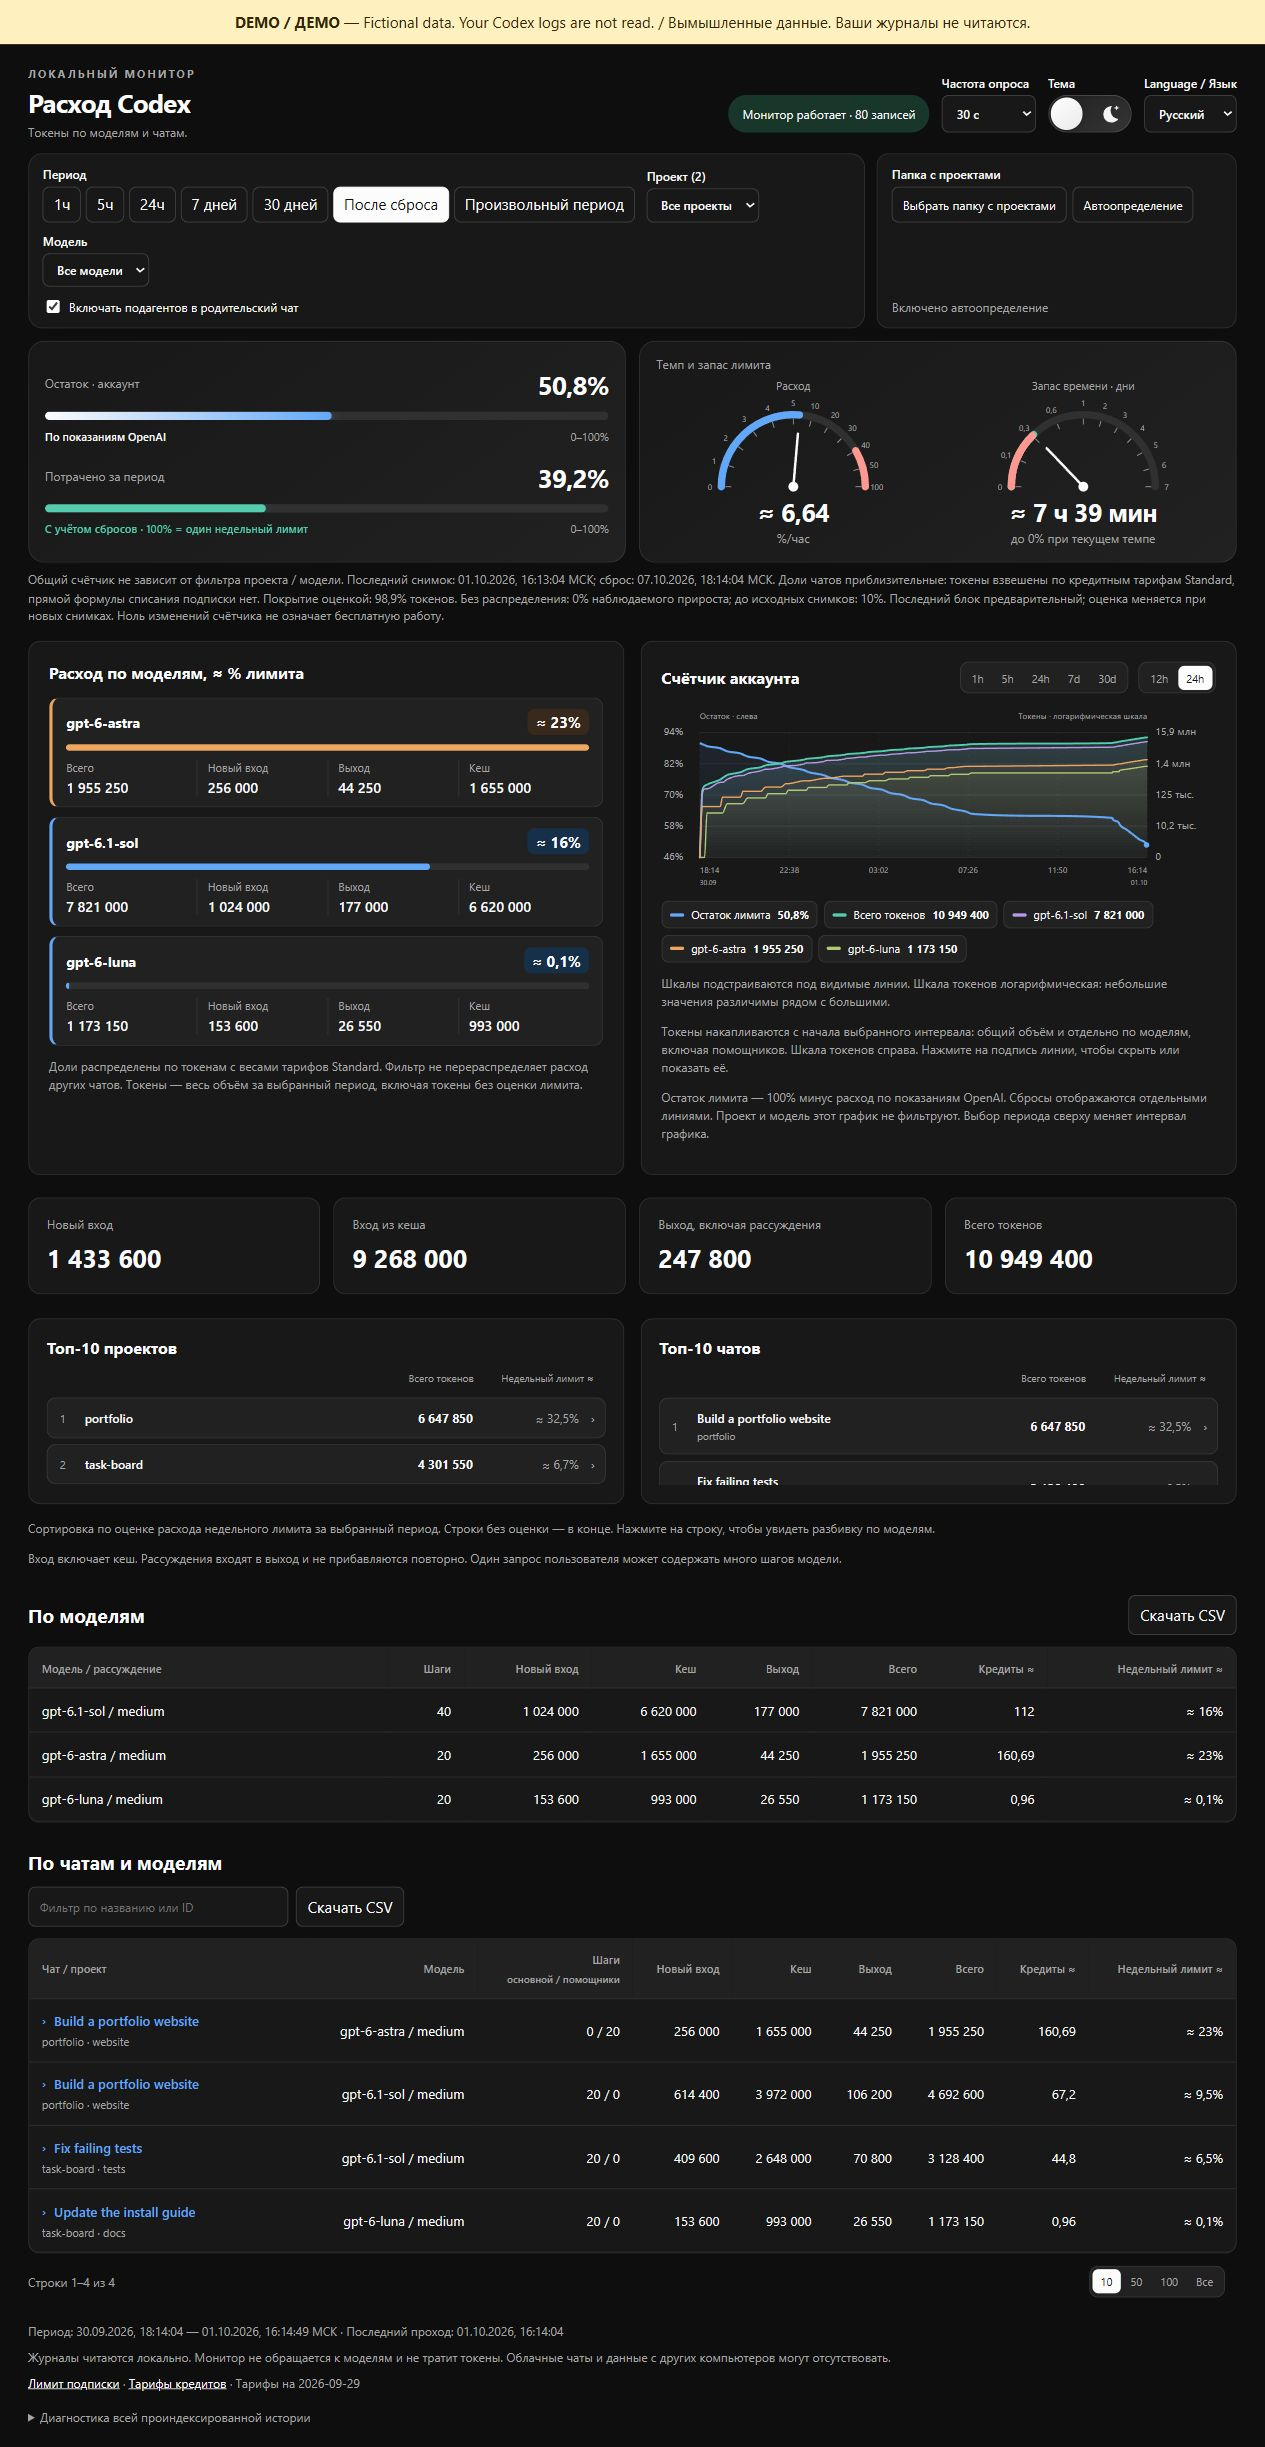
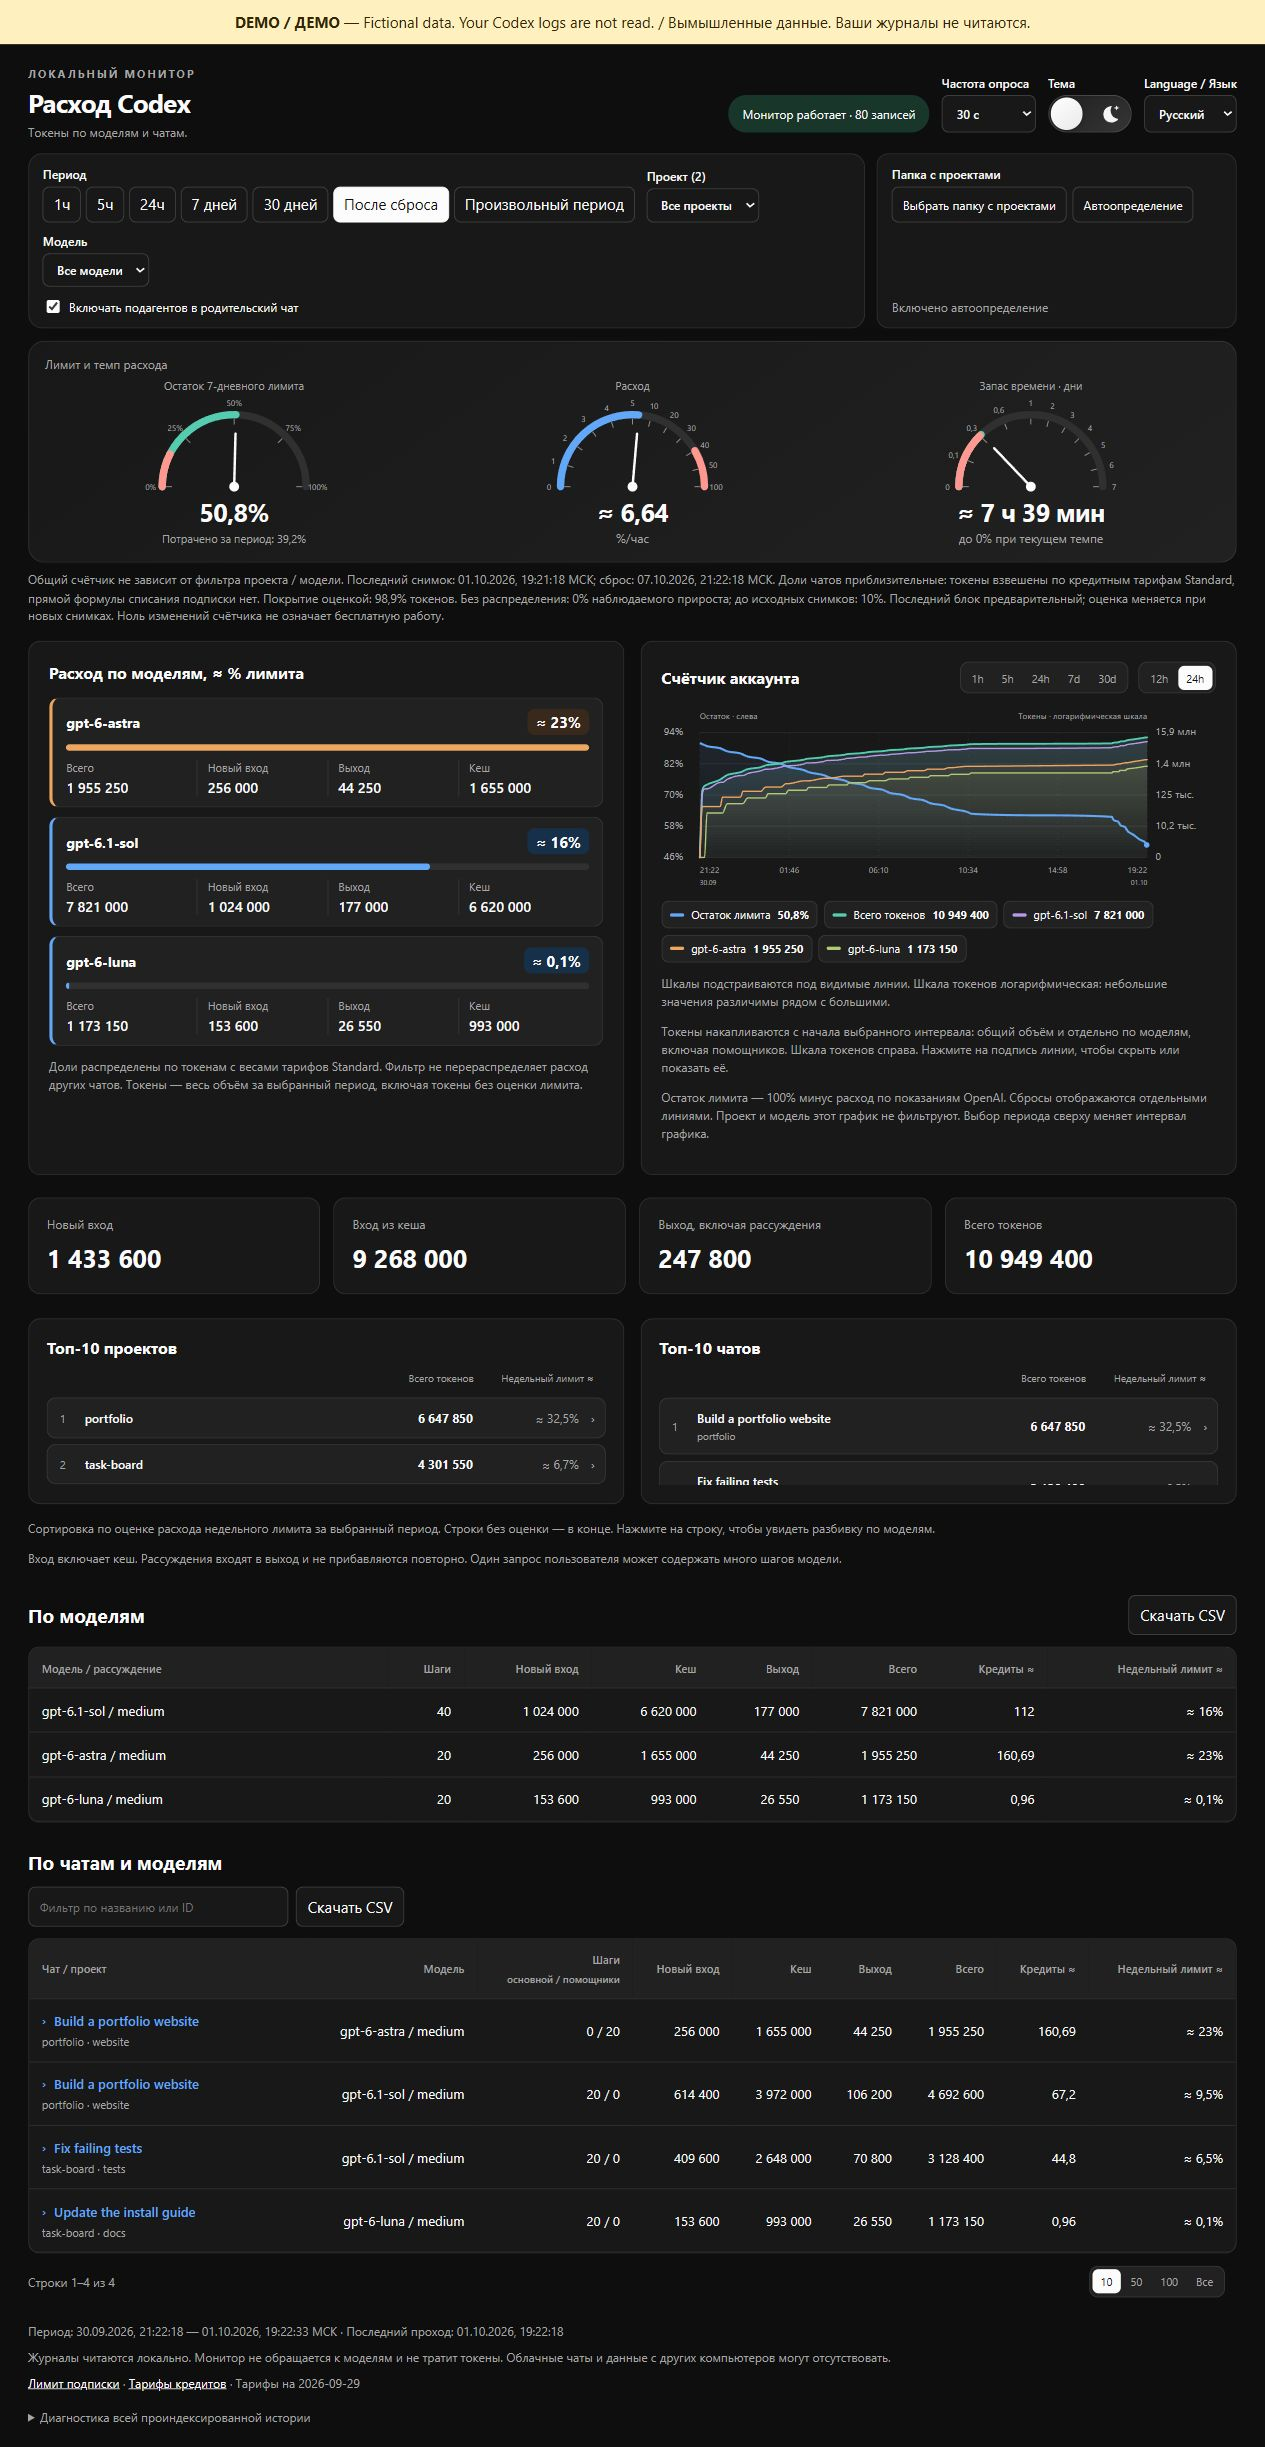
Refresh README screenshots and describe three allowance gauges

diff --git a/README.ru.md b/README.ru.md
@@ -4,7 +4,7 @@
 
 [English](README.md) · [Скачать](https://github.com/plankapkan/track-your-codex/releases/latest) · [Сообщить о проблеме](https://github.com/plankapkan/track-your-codex/issues)
 
-![Монитор расхода Codex со спидометром и запасом времени на вымышленных данных](docs/images/dashboard-ru-dark-2026-10-01.jpg)
+![Монитор расхода Codex с тремя приборами: остаток лимита, темп расхода и запас времени, на вымышленных данных](docs/images/dashboard-ru-dark-2026-10-01.jpg)
 
 [Светлая тема](docs/images/dashboard-ru-light-2026-10-01.jpg)
 
@@ -24,7 +24,7 @@
 
 - Токены по чатам, проектам и моделям: новый вход, кеш и выход.
 - Снимки недельного лимита, графики и группировка подагентов.
-- Остаток и расход за период двумя полосками в одной карточке, спидометр расхода в %/час и прибор запаса времени на 0–7 дней. Неравномерные шкалы помогают различать небольшие значения.
+- Три стрелочных прибора в одной панели: остаток недельного лимита (0–100%), темп расхода (%/час) и запас времени (0–7 дней). Неравномерные шкалы темпа и времени помогают различать небольшие значения; расход за выбранный период показан под остатком лимита.
 - Фильтры, поиск и CSV. Русский / английский, светлая / тёмная тема.
 
 ## Данные

diff --git a/README.md b/README.md
@@ -4,7 +4,7 @@ See which Codex chats, projects and models use the most tokens. Runs on your com
 
 [Русский](README.ru.md) · [Download](https://github.com/plankapkan/track-your-codex/releases/latest) · [Report a problem](https://github.com/plankapkan/track-your-codex/issues)
 
-![Codex token usage dashboard with pace and time remaining gauges, using example data](docs/images/dashboard-en-dark-2026-10-01.jpg)
+![Codex token usage dashboard with three gauges: remaining allowance, usage pace and time remaining, using example data](docs/images/dashboard-en-dark-2026-10-01.jpg)
 
 [Light theme](docs/images/dashboard-en-light-2026-10-01.jpg)
 
@@ -29,7 +29,7 @@ Upgrading from v0.2.0? Follow the [migration steps](docs/troubleshooting.md#upgr
 
 - Tokens by chat, project and model, with input, cache and output counts.
 - Weekly allowance snapshots, token charts and subagent grouping.
-- Stacked remaining / spent allowance bars, a usage speedometer in %/hour and a time remaining gauge from 0 to 7 days. Both gauges use nonlinear scales to make small values easier to read.
+- Three gauges in one panel: remaining weekly allowance (0–100%), usage pace (%/hour) and time remaining (0–7 days). The pace and time gauges use nonlinear scales to make small values easier to read; allowance spent during the selected period appears below the remaining allowance.
 - Filters, chat search and CSV export. English / Russian; light / dark theme.
 
 ## About the numbers
